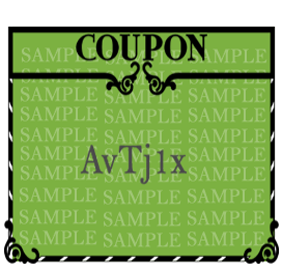
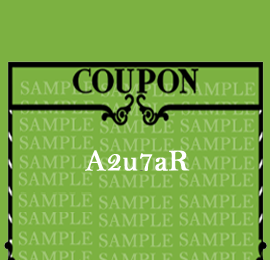
changes

diff --git a/templates/base.html b/templates/base.html
@@ -473,7 +473,7 @@ $(function(){
   $.scrollIt({
   //upKey: 38,             // key code to navigate to the next section
   //downKey: 40,           // key code to navigate to the previous section
-  easing: 'linear',      // the easing function for animation
+  /*easing: 'linear',      // the easing function for animation*/
   scrollTime: 600,       // how long (in ms) the animation takes
   activeClass: 'active', // class given to the active nav element
   onPageChange: null,    // function(pageIndex) that is called when page is changed

diff --git a/apps/mainapp/static/css/gumby.css b/apps/mainapp/static/css/gumby.css
@@ -9046,7 +9046,7 @@ table.rounded > tbody:first-child tr:first-child td {
 * used to set background image.
 *****************/
 .circled-image-1 {
-  background-image: url("/static/images/coupons.png");
+  background-image: url("/static/images/coupon.png");
 }
 
 .circled-image-2 {
